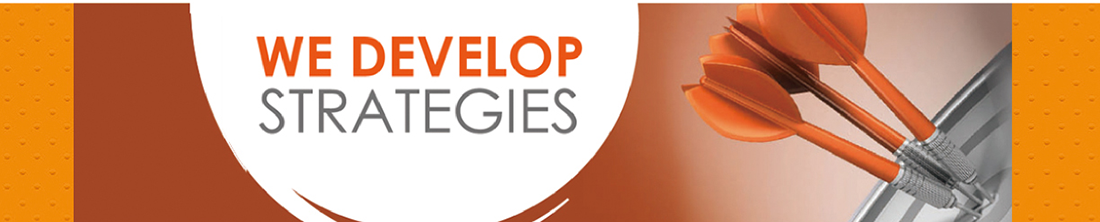
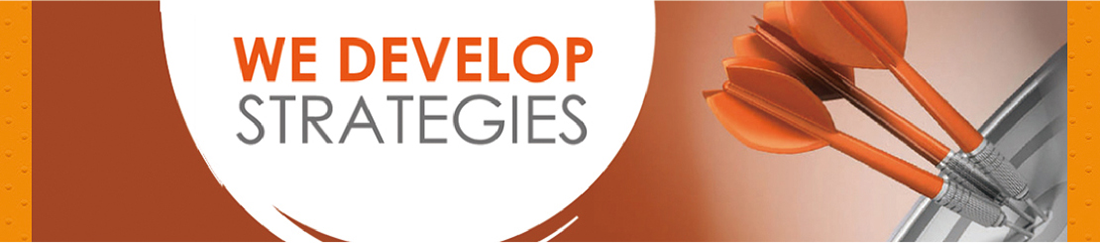
Re-made menu, main page and the css file for whoweare/whatwedo/clientlist/contactus pages

diff --git a/Application/Home/View/Index/index.html b/Application/Home/View/Index/index.html
@@ -3,11 +3,11 @@
 <!-- banner -->
 <div class="banner">
 	<ul class="banner_u" style="left:0;position: relative;">
-		<li><img width="{:BANNER_WIDTH}" height="{:BANNER_HEIGHT}" src="{:SITE_PATH}{$refurl1}" /></li>
-		<li><img width="{:BANNER_WIDTH}" height="{:BANNER_HEIGHT}" src="{:SITE_PATH}{$refurl2}" /></li>
-		<li><img width="{:BANNER_WIDTH}" height="{:BANNER_HEIGHT}" src="{:SITE_PATH}{$refurl3}" /></li>
-		<li><img width="{:BANNER_WIDTH}" height="{:BANNER_HEIGHT}" src="{:SITE_PATH}{$refurl4}" /></li>
-		<li><img width="{:BANNER_WIDTH}" height="{:BANNER_HEIGHT}" src="{:SITE_PATH}{$refurl5}" /></li>
+		<li><img width="{:BANNER_WIDTH}" height="{:BANNER_HEIGHT_MAIN}" src="{:SITE_PATH}{$refurl1}" /></li>
+		<li><img width="{:BANNER_WIDTH}" height="{:BANNER_HEIGHT_MAIN}" src="{:SITE_PATH}{$refurl2}" /></li>
+		<li><img width="{:BANNER_WIDTH}" height="{:BANNER_HEIGHT_MAIN}" src="{:SITE_PATH}{$refurl3}" /></li>
+		<li><img width="{:BANNER_WIDTH}" height="{:BANNER_HEIGHT_MAIN}" src="{:SITE_PATH}{$refurl4}" /></li>
+		<li><img width="{:BANNER_WIDTH}" height="{:BANNER_HEIGHT_MAIN}" src="{:SITE_PATH}{$refurl5}" /></li>
 	</ul>
 </div>
 <div class="banner_btn">
@@ -29,22 +29,22 @@
             <ul id="services-pic">
                 <li>
                     <a href=""><img src="{:SITE_PATH}Public/Img/GC/service_pic1.jpg" /></a>
-                    <h3>Media Awareness</h3>
-                    <h4><i>Event title description</i></h4>
+                    <p class="yellow-title">Media Awareness</p>
+                    <p class="title-desc"><i>Event title description</i></p>
                     <p>Every brand is different. GC creates insightful analysis on the brand of clients to define their brand positioning and target consumers.</p>
                     <a href=""><img src="{:SITE_PATH}Public/Img/GC/more.png" /></a>
                 </li>
                 <li>
                     <a href=""><img src="{:SITE_PATH}Public/Img/GC/service_pic2.jpg" /></a>
-                    <h3>Brand Building</h3>
-                    <h4><i>Event title description</i></h4>
+                    <p class="yellow-title">Brand Building</p>
+                    <p class="title-desc"><i>Event title description</i></p>
                     <p>Every brand is different. GC creates insightful analysis on the brand of clients to define their brand positioning and target consumers.</p>
                     <a href=""><img src="{:SITE_PATH}Public/Img/GC/more.png" /></a>
                 </li>
                 <li>
                     <a href=""><img src="{:SITE_PATH}Public/Img/GC/service_pic3.jpg" /></a>
-                    <h3>Event Management</h3>
-                    <h4><i>Event title description</i></h4>
+                    <p class="yellow-title">Event Management</p>
+                    <p class="title-desc"><i>Event title description</i></p>
                     <p>Every brand is different. GC creates insightful analysis on the brand of clients to define their brand positioning and target consumers.</p>
                     <a href=""><img src="{:SITE_PATH}Public/Img/GC/more.png" /></a>
                 </li>
@@ -66,12 +66,12 @@
         <ul>
             <li>
                 <a href=""><img src="{:SITE_PATH}Public/Img/GC/brand.jpg" /></a>
-                <p>Every brand is different. GC creates...</p>
+                <p>Every brand is different. GC creates insightful analysis on the brand of clients to define their brand</p>
                 <div style="clear:both"></div>
             </li>
             <li>
                 <a href=""><img src="{:SITE_PATH}Public/Img/GC/brand.jpg" /></a>
-                <p>Every brand is different. GC creates...</p>
+                <p>Every brand is different. GC creates insightful analysis on the brand of clients to define their brand</p>
                 <div style="clear:both"></div>
             </li>
         </ul>
@@ -97,28 +97,14 @@
    
 </script>
 <script>
-var banner_width=1100;
+var banner_width={:BANNER_WIDTH};
 var img_s_path="{:SITE_PATH}Public/Img/GC/img_s.png";
 var img_e_path="{:SITE_PATH}Public/Img/GC/img_e.png";
-var menu_home_image="{:SITE_PATH}Public/Img/GC/menu_home.png";
-var menu_whoweare="{:SITE_PATH}Public/Img/GC/menu_whoweare.png";
-var menu_whatwedo="{:SITE_PATH}Public/Img/GC/menu_whatwedo.png";
-var menu_smartchoice="{:SITE_PATH}Public/Img/GC/menu_smartchoice.png";
-var menu_portfolio="{:SITE_PATH}Public/Img/GC/menu_portfolio.png";
-var menu_clientlist="{:SITE_PATH}Public/Img/GC/menu_clientlist.png";
-var menu_contact_us="{:SITE_PATH}Public/Img/GC/menu_contact_us.png";
-var menuc_home_image="{:SITE_PATH}Public/Img/GC/menuc_home.png";
-var menuc_whoweare="{:SITE_PATH}Public/Img/GC/menuc_whoweare.png";
-var menuc_whatwedo="{:SITE_PATH}Public/Img/GC/menuc_whatwedo.png";
-var menuc_smartchoice="{:SITE_PATH}Public/Img/GC/menuc_smartchoice.png";
-var menuc_portfolio="{:SITE_PATH}Public/Img/GC/menuc_portfolio.png";
-var menuc_clientlist="{:SITE_PATH}Public/Img/GC/menuc_clientlist.png";
-var menuc_contact_us="{:SITE_PATH}Public/Img/GC/menuc_contact_us.png";
 $(document).ready(function (){linum=$(".banner_u li").length;w=banner_width*linum;$(".banner_u").css("width",w+"px");linums=$(".banner_btn li").length;w=20*linums;$(".banner_btn ul").css("width",w+"px");setTimeout(autopaly,5E3);$(".banner_btn li img").click(function(){var a=$(this).attr("s");cliplay(a)});
 function autopaly(){linum=$(".banner_u li").length;w=banner_width*linum;1<$(".banner_u li").length&&(ml=parseInt($(".banner_u").css("left")),0>=ml&&0==ml%banner_width&&(ml==-1*(w-banner_width)?$(".banner_u").animate({left:"0px"},"slow"):$(".banner_u").animate({left:ml-banner_width+"px"},"slow"),playbtn((ml-banner_width*2)/-banner_width>linum?"1":(ml-banner_width*2)/-banner_width)));setTimeout(autopaly,5E3)}function cliplay(a){$(".banner_u").animate({left:-banner_width*(a-1)+"px"},"slow");playbtn(a)}
 function playbtn(a){var b=$(".banner_btn li");$(b).each(function(b){$(this).find("img").attr("s")==a?$(this).find("img").attr("src",img_s_path):$(this).find("img").attr("src",img_e_path)})};
-function clear_menuc(){$("#menu_home-image").attr('src',menu_home_image);$("#menu_whoweare-image").attr('src',menu_whoweare);$("#menu_whatwedo-image").attr('src',menu_whatwedo);$("#menu_smartchoice-image").attr('src',menu_smartchoice);$("#menu_portfolio-image").attr('src',menu_portfolio);$("#menu_clientlist-image").attr('src',menu_clientlist);$("#menu_contact_us-image").attr('src',menu_contact_us);};
-(function init(){clear_menuc();$("#menu_home-image").attr("src",menuc_home_image);$("#menu_home-image").mouseover(function(){clear_menuc();$(this).attr("src",menuc_home_image)});$("#menu_whoweare-image").mouseover(function(){clear_menuc();$(this).attr("src",menuc_whoweare)});$("#menu_whatwedo-image").mouseover(function(){clear_menuc();$(this).attr("src",menuc_whatwedo)});$("#menu_smartchoice-image").mouseover(function(){clear_menuc();$(this).attr("src",menuc_smartchoice)});$("#menu_portfolio-image").mouseover(function(){clear_menuc();$(this).attr("src",menuc_portfolio)});$("#menu_clientlist-image").mouseover(function(){clear_menuc();$(this).attr("src",menuc_clientlist)});$("#menu_contact_us-image").mouseover(function(){clear_menuc();$(this).attr("src",menuc_contact_us)});})();});
+function clear_menuc(){$("#menu-home-div").css('background-color','#ffffff');$("#menu-whoweare-div").css('background-color','#ffffff');$("#menu-whatwedo-div").css('background-color','#ffffff');$("#menu-smartchoice-div").css('background-color','#ffffff');$("#menu-portfolio-div").css('background-color','#ffffff');$("#menu-clientlist-div").css('background-color','#ffffff');$("#menu-contactus-div").css('background-color','#ffffff');$("#menu-home-a").css('color','#646464');$("#menu-whoweare-a").css('color','#646464');$("#menu-whatwedo-a").css('color','#646464');$("#menu-smartchoice-a").css('color','#646464');$("#menu-portfolio-a").css('color','#646464');$("#menu-clientlist-a").css('color','#646464');$("#menu-contactus-a").css('color','#646464');};
+(function init(){clear_menuc();$("#menu-home-div").css('background-color','#faa815');$("#menu-home-a").css('color','#f0f0f0');$("#menu-home-div").mouseover(function(){clear_menuc();$("#menu-home-div").css('background-color','#faa815');$("#menu-home-a").css('color','#f0f0f0');});$("#menu-whoweare-div").mouseover(function(){clear_menuc();$("#menu-whoweare-div").css('background-color','#faa815');$("#menu-whoweare-a").css('color','#f0f0f0');});$("#menu-whatwedo-div").mouseover(function(){clear_menuc();$("#menu-whatwedo-div").css('background-color','#faa815');$("#menu-whatwedo-a").css('color','#f0f0f0');});$("#menu-smartchoice-div").mouseover(function(){clear_menuc();$("#menu-smartchoice-div").css('background-color','#faa815');$("#menu-smartchoice-a").css('color','#f0f0f0');});$("#menu-portfolio-div").mouseover(function(){clear_menuc();$("#menu-portfolio-div").css('background-color','#faa815');$("#menu-portfolio-a").css('color','#f0f0f0');});$("#menu-clientlist-div").mouseover(function(){clear_menuc();$("#menu-clientlist-div").css('background-color','#faa815');$("#menu-clientlist-a").css('color','#f0f0f0');});$("#menu-contactus-div").mouseover(function(){clear_menuc();$("#menu-contactus-div").css('background-color','#faa815');$("#menu-contactus-a").css('color','#f0f0f0');});})();});
 </script>
 </body>
 </html>

diff --git a/Public/Css/home.css b/Public/Css/home.css
@@ -1,57 +1,76 @@
 body, div, ul, li, span, a{margin:0px;padding:0px;}
 hr{color:rgb(250, 160,20);}
-.banner{position:relative; left:-100px; width:1100px; overflow: hidden;}
+.banner{position:relative; left:-40px; width:1100px; overflow: hidden;}
 .banner li {float: left; width: 1100px;}
 .banner_u {list-style: outside none none;}
 
 .banner_btn{ width: 100%;}
 
-.banner_btn ul {list-style: outside none none;float: right;width: 100px;margin-right: 20px;}
+.banner_btn ul {list-style: outside none none;float: right;width: 100px;margin-right: 10px;}
 .banner_btn li {float: left;width: 20px;}
 .banner_btn li img { cursor: pointer;}
 
-.header {position:relative; left:-100px; width:1100px; height:25px; background-color:rgb(95,91,90); color:rgb(240,240,240); font-size:14px;}
+.header {position:relative; left:-40px; width:1100px; height:25px; background-color:rgb(95,91,90); color:rgb(240,240,240); font-size:13px;}
+.header-div-right {float:right; margin:3px 63px auto 10px;}
 .header-div {float:right; margin:3px 20px auto 10px;}
 .header-div:first-child {margin-right:80px;}
-.header-div a:link {font-style:italic; color:rgb(240,240,240);}
-.header-div a:visited {font-style:italic; color:rgb(240,240,240);}
+.header-div i {position:relative; top:1px;}
+.header a {text-decoration:none; font-style:italic; color:rgb(240,240,240);}
 
-.navigator {position:relative; left:-30px; top:15px; width:950px; height:90px;}
-.logo-div {width:100px; float:left;}
-.menu-div {width:850px; margin-top:40px; float:right;}
-.menu-u   {list-style: outside none none; float:right;}
+.navigator {width:100%; height:90px;}
+.logo-div {width:100px; float:left; margin:10px auto 10px 0px;}
+.menu-div {width:850px; margin-top:43px; margin-right:15px; float:right;}
+.menu-u   {list-style: outside none none; float:right; font-size:17px; font-weight:600;}
+.menu-u a {text-decoration:none; color:#646464;}
 .menu-u li {float: left;}
-.menu-u li img { cursor: pointer;}
+#menu-home-div {width:78px; height:36px; text-align:center;}
+#menu-whoweare-div {width:123px; height:36px; text-align:center;}
+#menu-whatwedo-div {width:131px; height:36px; text-align:center;}
+#menu-smartchoice-div {width:122px; height:36px; text-align:center;}
+#menu-portfolio-div {width:85px; height:36px; text-align:center;}
+#menu-clientlist-div {width:98px; height:36px; text-align:center;}
+#menu-contactus-div {width:102px; height:36px; text-align:center;}
+#menu-home-a {position:relative; top:7px;}
+#menu-whoweare-a {position:relative; top:7px;}
+#menu-whatwedo-a {position:relative; top:7px;}
+#menu-smartchoice-a {position:relative; top:7px;}
+#menu-portfolio-a {position:relative; top:7px;}
+#menu-clientlist-a {position:relative; top:7px;}
+#menu-contactus-a {position:relative; top:7px;}
 
 .contents {margin-top:30px;}
 
-.section {border-left: 6px solid rgb(254,168,21); font-size:22px; font-weight:600;}
+.section {border-left: 6px solid rgb(254,168,21); font-size:22px; font-weight:600; color:#646464;}
 #section-services .scrollable {width:1050px;}
+.scrollable {position:relative; left:-15px;}
 #left_arrow-a,#right_arrow-a {float: left; margin-top: 40px;}
 #services-pic {list-style: outside none none; float:left;}
-#services-pic li {float:left; width:260px; margin: auto 10px;}
-#services-pic li h3 {color:rgb(254,168,21);}
+#services-pic li {float:left; width:320px; margin: auto 7px;}
+#services-pic li .yellow-title {color:rgb(254,168,21); font-size:19px; font-weight:600;}
+#services-pic li .title-desc i {color:#646464; font-size:16px; font-weight:600;}
+#services-pic li p {text-align:justify;line-height:1.5;}
 
-#section-about_gc {width:500px; float:left;margin:30px 25px 30px 0px;}
+#section-about_gc {width:630px; float:left;margin:30px 25px 30px 0px;}
 #section-about_gc>a>img {margin-top:20px;}
+#section-about_gc p {text-align:justify;line-height:1.5;}
 
-#section-news_event {width:310px; float:right;margin:30px 0px 30px 25px;}
+#section-news_event {width:320px; float:right;margin:30px 20px 30px 25px;}
+#section-news_event>b {color:#646464;}
 #section-news_event>a>img {margin-top:50px;}
 #section-news_event ul {list-style: outside none none;}
 #section-news_event ul li {}
 #section-news_event ul li a {float:left;margin:30px 0px 0px;}
-#section-news_event ul li p {width:200px; float:left;margin:30px 0px 0px 20px;}
+#section-news_event ul li p {width:235px; float:left;margin:30px 0px 0px 15px;font-size:14px;text-align:justify;line-height:1.5;}
 
-p {font-size:13px;}
-.intro-title {border-left: 8px solid rgb(254,168,21); padding-left:10px; font-size:24px; font-weight:800; color:#646464;}
-#intro img {float:left; margin:30px 30px 20px 0px;}
-#intro-text {float:left; width:620px; margin:30px 0px 20px 0px;}
-#intro-text p {position:relative; left:18px; }
+.intro-title {border-left: 8px solid rgb(254,168,21); padding-left:7px; font-size:24px; font-weight:800; color:#646464;}
+#intro img {float:left; margin:30px 20px 20px 0px;}
+#intro-text {float:left; width:740px; margin:30px 0px 20px 0px;}
+#intro-text p {position:relative; left:16px; text-align:justify;line-height:1.2;}
 
 #details {}
 #details>ul {list-style: outside none none;}
-#details>ul>li {margin:30px 0px 0px;}
-.detail-title {font-style:italic; font-size:18px; color:#484848; font-weight:400; margin:20px auto 10px auto;}
+#details>ul>li {margin-bottom:20px;}
+.detail-title {font-style:italic; font-size:18px; color:#484848; font-weight:400; margin:20px auto 10px 16px;}
 .detail-li-left {width:30%;}
 .detail-li-middle {width:36%;}
 .detail-li-right {width:30%;}
@@ -64,33 +83,35 @@ p {font-size:13px;}
 
 .whatwedo-intro {margin:40px auto 40px;}
 .whatwedo-intro>img {float:left; width:150px;}
-.intro-text {float:left; width:700px; margin-left:20px;}
+.whatwedo-intro li {margin:4px 0px;}
+.intro-text {float:left; width:850px; margin-left:20px;}
+.intro-text p {margin-left:16px; text-align:justify;line-height:1.2;}
 .detail-title+div+ul {list-style: outside none none;}
 .detail-title+div+ul li ul {list-style:none outside url('../Img/GC/list_style_image.png'); clear:both;}
 .detail-title+div+ul li ul li {float:left; font-size:12px; position:relative; left:16px;}
-.li-w60 {width:60%;}
-.li-w33 {width:30%;}
-.li-w40 {width:40%;}
+.li-w60 {width:66%;}
+.li-w33 {width:33%;}
+.li-w40 {width:33%;}
 
-#clientlist-title {margin:40px auto 50px;}
+.clientlist-title {width:810px; margin:40px auto 50px;}
 .clientlist-div ul {list-style: outside none none;}
 .clientlist-div ul li ul {clear:both;}
 .clientlist-div ul li ul li {float:left;}
 
-#contact-div {float:left; width:48%;}
+#contact-div {float:left; width:48%; margin-left:8px;}
 #contact-div .intro-title {margin-bottom:30px;}
 #contact-div tr {margin-bottom:20px;}
-#contact-div tr td {font-size:16px; font-style:italic; color:#323232; font-weight:300;}
+#contact-div tr td {font-size:16px; font-style:italic; color:#323232; font-weight:300; vertical-align:top;}
 #contact-div tr td:first-child {width:30%;}
 #contact-div tr td:last-child {width:70%;}
 
-#info-div  {float:right; width:40%; border-left: 2px solid rgb(254,168,21); padding-left:60px;}
+#info-div  {float:right; width:460px; border-left: 2px solid rgb(254,168,21); padding-left:60px;}
 #info-div td {font-size:16px; font-style:italic; color:#323232; font-weight:300;}
 
-.footer {position:relative; left:-100px; width:1100px; height:130px; background-color:rgb(95,91,90);margin-top:30px;}
+.footer {position:relative; left:-40px; width:1100px; height:130px; background-color:rgb(95,91,90);margin-top:20px;}
 .footer>div {padding-top:30px; text-align:center; color:rgb(240,240,240);}
 .footer img {position:relative; top:5px;}
 
-.footer2 {position:relative; left:-100px; width:1100px; height:50px; margin-top:80px;}
+.footer2 {position:relative; left:-40px; width:1100px; height:50px; margin-top:80px;}
 .footer2 div:first-child {height:20px; background-color:rgb(244,165,0);}
 .footer2 div:last-child {height:30px; background-color:rgb(252,215,144);}

diff --git a/Application/Home/View/Common/header.html b/Application/Home/View/Common/header.html
@@ -1,9 +1,9 @@
 <!-- Container starts -->
-<div style="width: 900px; margin: 0px auto; font-family:Arial; ">
+<div style="width: 1020px; margin: 0px auto; font-family:Arial; ">
 <!-- Header starts -->
 <div class="header">
-    <div class='header-div'>
-        <i><a href=''>中</a>&nbsp;|&nbsp;<a href=''>EN</a></i>
+    <div class='header-div-right'>
+        <a href=''>中</a>&nbsp;|&nbsp;<a href=''>EN</a>
     </div>
     <div class='header-div'>
         <i>Tel: 23557700</i>
@@ -19,13 +19,13 @@
     </div>
     <div class="menu-div">
         <ul class="menu-u">
-            <li><a href="{:U('Index/index')}"><img id="menu_home-image"></a></li>
-            <li><a href="{:U('Pageview/index/id/90002')}"><img id="menu_whoweare-image"></a></li>
-            <li><a href="{:U('Pageview/index/id/90003')}"><img id="menu_whatwedo-image"></a></li>
-            <li><a href=""><img id="menu_smartchoice-image"></a></li>
-            <li><a href=""><img id="menu_portfolio-image"></a></li>
-            <li><a href="{:U('Pageview/index/id/90004')}"><img id="menu_clientlist-image"></a></li>
-            <li><a href="{:U('Pageview/index/id/90005')}"><img id="menu_contact_us-image"></a></li>
+            <li><div id="menu-home-div"><a id="menu-home-a" href="{:U('Index/index')}">Home</a></div></li>
+            <li><div id="menu-whoweare-div"><a id="menu-whoweare-a" href="{:U('Pageview/index/id/90002')}">Who We Are</a></div></li>
+            <li><div id="menu-whatwedo-div"><a id="menu-whatwedo-a" href="{:U('Pageview/index/id/90003')}">What We Do</a></div></li>
+            <li><div id="menu-smartchoice-div"><a id="menu-smartchoice-a" href="">Smart Choice</a></div></li>
+            <li><div id="menu-portfolio-div"><a id="menu-portfolio-a" href="">Portfolio</a></div></li>
+            <li><div id="menu-clientlist-div"><a id="menu-clientlist-a" href="{:U('Pageview/index/id/90004')}">Client List</a></div></li>
+            <li><div id="menu-contactus-div"><a id="menu-contactus-a" href="{:U('Pageview/index/id/90005')}">Contact Us</a></div></li>
         </ul>
     </div>
     <div style="clear:both"></div>

diff --git a/Application/Home/View/Common/header_home.html b/Application/Home/View/Common/header_home.html
@@ -1,9 +1,9 @@
 <!-- Container starts -->
-<div style="width: 900px; margin: 0px auto; font-family:Arial; ">
+<div style="width: 1020px; margin: 0px auto; font-family:Arial; ">
 <!-- Header starts -->
 <div class="header">
-    <div class='header-div'>
-        <i><a href=''>中</a>&nbsp;|&nbsp;<a href=''>EN</a></i>
+    <div class='header-div-right'>
+        <a href=''>中</a>&nbsp;|&nbsp;<a href=''>EN</a>
     </div>
     <div class='header-div'>
         <i>Tel: 23557700</i>
@@ -19,13 +19,13 @@
     </div>
     <div class="menu-div">
         <ul class="menu-u">
-            <li><a href="{:U('Index/index')}"><img id="menu_home-image"></a></li>
-            <li><a href="{:U('Pageview/index/id/90002')}"><img id="menu_whoweare-image"></a></li>
-            <li><a href="{:U('Pageview/index/id/90003')}"><img id="menu_whatwedo-image"></a></li>
-            <li><a href=""><img id="menu_smartchoice-image"></a></li>
-            <li><a href=""><img id="menu_portfolio-image"></a></li>
-            <li><a href="{:U('Pageview/index/id/90004')}"><img id="menu_clientlist-image"></a></li>
-            <li><a href="{:U('Pageview/index/id/90005')}"><img id="menu_contact_us-image"></a></li>
+            <li><div id="menu-home-div"><a id="menu-home-a" href="{:U('Index/index')}">Home</a></div></li>
+            <li><div id="menu-whoweare-div"><a id="menu-whoweare-a" href="{:U('Pageview/index/id/90002')}">Who We Are</a></div></li>
+            <li><div id="menu-whatwedo-div"><a id="menu-whatwedo-a" href="{:U('Pageview/index/id/90003')}">What We Do</a></div></li>
+            <li><div id="menu-smartchoice-div"><a id="menu-smartchoice-a" href="">Smart Choice</a></div></li>
+            <li><div id="menu-portfolio-div"><a id="menu-portfolio-a" href="">Portfolio</a></div></li>
+            <li><div id="menu-clientlist-div"><a id="menu-clientlist-a" href="{:U('Pageview/index/id/90004')}">Client List</a></div></li>
+            <li><div id="menu-contactus-div"><a id="menu-contactus-a" href="{:U('Pageview/index/id/90005')}">Contact Us</a></div></li>
         </ul>
     </div>
     <div style="clear:both"></div>

diff --git a/index.php b/index.php
@@ -5,6 +5,7 @@ define('SITE_PATH','http://192.168.1.102/gc/');
 define('APP_PATH','./Application/');
 define('APP_DEBUG',true);
 define('BANNER_WIDTH',1100);
-define('BANNER_HEIGHT',220);
+define('BANNER_HEIGHT',240);
+define('BANNER_HEIGHT_MAIN',330);
 require './ThinkPHP/ThinkPHP.php';
 ?>
